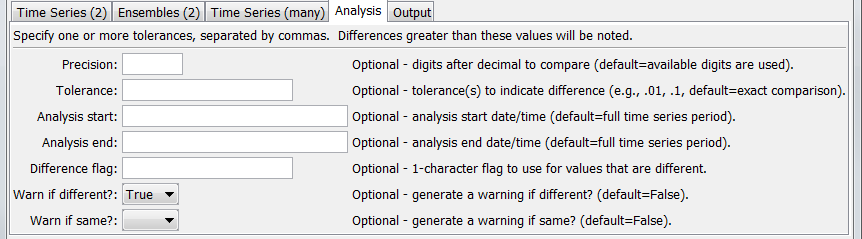
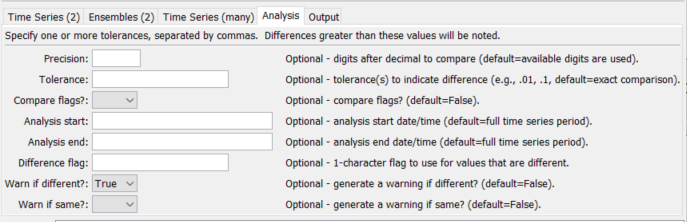
Update CompareTimeSeries for CompareFlags, issue #37

diff --git a/mkdocs-project/docs/command-ref/CompareTimeSeries/CompareTimeSeries.md b/mkdocs-project/docs/command-ref/CompareTimeSeries/CompareTimeSeries.md
@@ -60,7 +60,9 @@ See also the [`CompareFiles`](../CompareFiles/CompareFiles.md) and [`CompareTabl
 
 The following dialog is used to edit the command and illustrates the command syntax when comparing two time series.
 
+**<p style="text-align: center;">
 ![CompareTimeSeries 2](CompareTimeSeries_2.png)
+</p>**
 
 **<p style="text-align: center;">
 `CompareTimeSeries` Command Editor Showing Parameters to Compare 2 Time Series (<a href="../CompareTimeSeries_2.png">see also the full-size image</a>)
@@ -68,7 +70,9 @@ The following dialog is used to edit the command and illustrates the command syn
 
 The following dialog is used to edit the command and illustrates the command syntax when comparing two ensembles.
 
+**<p style="text-align: center;">
 ![CompareTimeSeries 2 Ensembles](CompareTimeSeries_2Ensembles.png)
+</p>**
 
 **<p style="text-align: center;">
 `CompareTimeSeries` Command Editor Showing Parameters to Compare 2 Ensembles (<a href="../CompareTimeSeries_2Ensembles.png">see also the full-size image</a>)
@@ -76,7 +80,9 @@ The following dialog is used to edit the command and illustrates the command syn
 
 The following dialog is used to edit the command and illustrates the command syntax when comparing many time series.
 
+**<p style="text-align: center;">
 ![CompareTimeSeries Many](CompareTimeSeries_Many.png)
+</p>**
 
 **<p style="text-align: center;">
 `CompareTimeSeries` Command Editor Showing Parameters to Compare Many Time Series (<a href="../CompareTimeSeries_Many.png">see also the full-size image</a>)
@@ -84,7 +90,9 @@ The following dialog is used to edit the command and illustrates the command syn
 
 The following dialog is used to edit the command and illustrates the command syntax for analysis parameters.
 
+**<p style="text-align: center;">
 ![CompareTimeSeries Analysis](CompareTimeSeries_Analysis.png)
+</p>**
 
 **<p style="text-align: center;">
 `CompareTimeSeries` Command Editor Showing Analysis Parameters (<a href="../CompareTimeSeries_Analysis.png">see also the full-size image</a>)
@@ -92,7 +100,9 @@ The following dialog is used to edit the command and illustrates the command syn
 
 The following dialog is used to edit the command and illustrates the command syntax for output parameters.
 
+**<p style="text-align: center;">
 ![CompareTimeSeries Output](CompareTimeSeries_Output.png)
+</p>**
 
 **<p style="text-align: center;">
 `CompareTimeSeries` Command Editor showing Output Parameters (<a href="../CompareTimeSeries_Output.png">see also the full-size image</a>)
@@ -119,12 +129,15 @@ Command Parameters
 ||`MatchDataType`|Match the data type part of time series identifiers when matching time series to compare.|`False`|
 ||`Precision`|When comparing data values, round the values to the given precision.  For example, a precision of 2 will round to the hundredths place.  This can be used to do comparisons on the lowest precision of the available time series.|Compare the available values without rounding.|
 ||`Tolerance`|Specify a comma-separated list of values.  The difference in the time series values will be compared to the tolerances and messages printed to the log file.|A tolerance of zero will be used to detect differences.|
+||`CompareFlags`|Indicate whether data flags should be compared, `False` or `True`. | `False`|
 ||`AnalysisStart`|The starting date/time to analyze for differences.  Specify a date/time of appropriate precision for the time series or `OutputStart` to use the output start.|Analyze all available data.|
 ||`AnalysisEnd`|The ending date/time to analyze for differences.  Specify a date/time of appropriate precision for the time series or `OutputEnd` to use the output end.|Analyze all available data.|
 ||`DiffFlag`|Specify as a single character to append a flag to the data flags for the time series.  Each value that is different is flagged in both time series that are compared.  The flag can be displayed by the graphing package.  This is useful for verification processes.  New time series will be created with the original identifier preceded by `Diff_`.|Do not flag data.|
 ||`WarnIfDifferent`|If `True` and at least one difference is detected, a warning will be generated by the command, which will result in software like TSTool displaying a warning.  If `False`, only status messages are written to the log file.  The warning is useful if it is critical to detect any change in the time series.|Do not generate a warning if time series are different.  Differences are printed to the log file.|
 ||`WarnIfSame`|If `True` and no differences are detected, a warning will be generated by the command, which will result in software like TSTool displaying a warning.  If `False`, only status messages are written to the log file.  The warning is useful if it is critical to detect that time series are the same.|Do not generate a warning if time series are the same.|
 ||`CreateDiffTS`|Indicate whether a time series should be created containing the differences between time series (TS2 – TS1).  This is useful to visually evaluate the differences and process the results with other commands.|`False`|
+||`TableID`| Table identifier for table to create listing differences.| No output table will be created. |
+||`DiffCountProperty`| Name of processor property to set with count of timesteps with differences.| No property will be set.|
 
 ## Examples ##
 

diff --git a/mkdocs-project/docs/index.md b/mkdocs-project/docs/index.md
@@ -12,7 +12,7 @@ This documentation is generally referred to as the **"User Documentation"** in c
 * [About the Open Water Foundation](#about-the-open-water-foundation)
 * [License](#license)
 * [Source Repository on GitHub](#source-repository-on-github)
-* [Release Notes](#release-notes)
+* [Release Notes](appendix-release-notes/release-notes.md) - **see updates for each software version**
 
 ----------------
 
@@ -102,7 +102,3 @@ The source files for this documentation are maintained in a GitHub repository:
 
 This user documentation is maintained in a repository that is separate from TSTool code
 in order to facilitate contributions by non-programmers.
-
-## Release Notes ##
-
-See the [release notes](appendix-release-notes/release-notes.md) section of this documentation for information about TSTool software changes.

diff --git a/mkdocs-project/docs/appendix-release-notes/release-notes-13.md b/mkdocs-project/docs/appendix-release-notes/release-notes-13.md
@@ -10,7 +10,8 @@
 
 * ![change](change.png) [13.03.00] Fix a number of issues where table arrays were not cleanly supported.
 * ![change](change.png) [13.03.00] Update the [`CompareTimeSeries`](../command-ref/CompareTimeSeries/CompareTimeSeries.md)
-command to better support comparing irregular time series.
+command to better support comparing irregular time series,
+add `CompareFlags` to control whether data flags are also compared..
 * ![change](change.png) [13.03.00] Update the [`NewTable`](../command-ref/NewTable/NewTable.md) command to support arrays.
 * ![change](change.png) [13.03.00] Update the [`SetTableValues`](../command-ref/SetTableValues/SetTableValues.md) command to
 add `Column` and `Value` parameters to set a single column value, useful for complex values such as arrays
